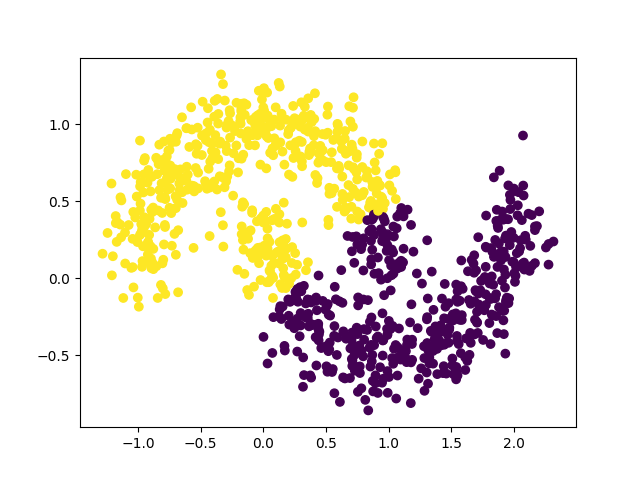
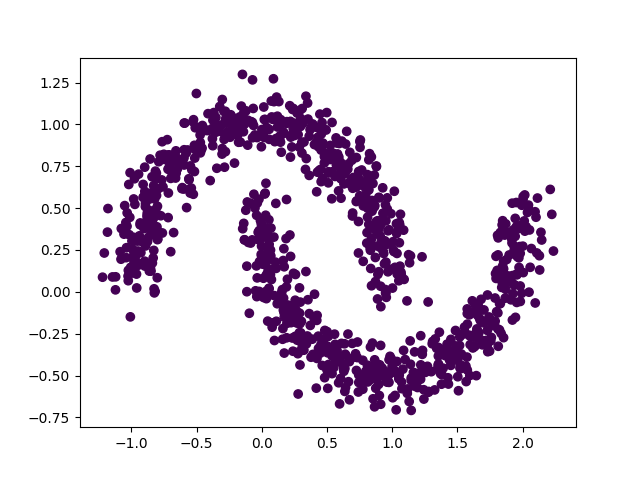
added some photos

diff --git a/helper.py b/helper.py
@@ -236,16 +236,17 @@ def get_all_u_nth(a_k, eigenVectors, nodes):
     for node in nodes:
         x = u_nth(a_k, eigenVectors, node)
         results.append( x )
-        results_cubed.append(x**3)
+        #results_cubed.append(x**3)
         total += x
 
     #Mean Constraint      int u(x)dx = 0,
-    if total < -10:
+    '''
+    if total < -3:
         val = (total) / len(nodes)
         for r in range(0, len(results)):
             results[r] = results[r] - val
             results_cubed.append(results[r]**3)
-    elif total > 10:
+    elif total > 3:
         val = (total) / len(nodes)
         for r in range(0, len(results)):
             results[r] = results[r] - val
@@ -253,7 +254,7 @@ def get_all_u_nth(a_k, eigenVectors, nodes):
     else:
         for r in range(0, len(results)):
             results_cubed.append(results[r]**3)
-
+    '''
 
     return [results, results_cubed]
 
@@ -269,7 +270,7 @@ def ginzburg_landau_segmentation(nodes, eigenValues, eigenVectors, dt, c, epsilo
         a_k = a_nth( a_k, b_k, d_k, D_k, dt, epsilon, c )
 
         results = get_all_u_nth( a_k, eigenVectors, nodes )
-        if iteration < 10:
+        if iteration < 1000:
             b_k = b_nth( nodes, eigenVectors, results[0] )
         else:
             b_k = b_nth( nodes, eigenVectors, results[1] )

diff --git a/twoMoonsSeg.py b/twoMoonsSeg.py
@@ -99,12 +99,12 @@ def test_harness():
     print("Average Segmentation Accuracy (φ_2) -- ", np.mean(results["seg2Accuracy"]))
 
 
-def run_test_with_plot(n, dt, c, ε, iterations):
+def run_test_with_plot(n, dt, c, ε, iterations, path):
     #Placeholder for Graph Time, segmentation Time and segmentation accuracy
     results = [] 
     print("Started")
     ## ----------- DATASET --------------##
-    X, Y = make_moons(n_samples=n, noise=0.15)
+    X, Y = make_moons(n_samples=n, noise=0.1)
     ## ----------------------------------##
 
 
@@ -113,6 +113,7 @@ def run_test_with_plot(n, dt, c, ε, iterations):
 
     moonsGraph = util.makeMoonsGraph(X)
     moonsGraph = util.n_nearest_Neighbours(moonsGraph,10)
+    print(moonsGraph.number_of_edges())
 
     ## ----------------------------------##
 
@@ -171,8 +172,10 @@ def run_test_with_plot(n, dt, c, ε, iterations):
         new_x.append(r[0])
         new_y.append(r[1])
 
+    print(len(X), len(new_x) )
     plt.scatter(new_x, new_y, c=seg1)
-    plt.savefig("./plots/GL_Seg.png")
+    #plt.savefig("./plots/GL_Seg.png")
+    plt.savefig(path)
 
     plt.scatter(new_x, new_y, c=seg2)
     plt.savefig("./plots/Eigen2_Seg.png")

diff --git a/main.py b/main.py
@@ -10,6 +10,8 @@ import imageSeg as img
 #twoMoon.test_harness()
 
 
-#twoMoon.run_test_with_plot(1000, 0.1, 1, 2, 200)
+#twoMoon.run_test_with_plot(1000, 0.1, 1, 2, 500, "./plots/GL_Seg1.png")
+#twoMoon.run_test_with_plot(1000, 0.1, 0.2, 10, 500, "./plots/GL_Seg2.png")
+twoMoon.run_test_with_plot(1000, 0.1, 1.33, 1.5, 500, "./plots/GL_Seg3.png")
 
-img.messing()
+#img.messing()
